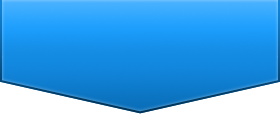
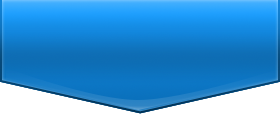
Updated graphics

diff --git a/Cook/Classes/Views/StoreTabView.m b/Cook/Classes/Views/StoreTabView.m
@@ -71,8 +71,8 @@
     self.shadows = [NSMutableArray arrayWithCapacity:[self.titles count]];
     
     // Button tabs and shadow.
-    UIImage *tabImage = [[UIImage imageNamed:@"cook_dash_library_tab.png"] stretchableImageWithLeftCapWidth:0 topCapHeight:28];
-    UIImage *shadowImage = [[UIImage imageNamed:@"cook_dash_library_tab_shadow.png"] stretchableImageWithLeftCapWidth:0 topCapHeight:28];
+    UIImage *tabImage = [[UIImage imageNamed:@"cook_dash_library_tab.png"] resizableImageWithCapInsets:UIEdgeInsetsMake(14.0, 0.0, 42.0, 0.0)];
+    UIImage *shadowImage = [[UIImage imageNamed:@"cook_dash_library_tab_shadow.png"] resizableImageWithCapInsets:UIEdgeInsetsMake(14.0, 0.0, 42.0, 0.0)];
     
     CGFloat offset = 0.0;
     CGFloat shadowOffset = 2.0;
